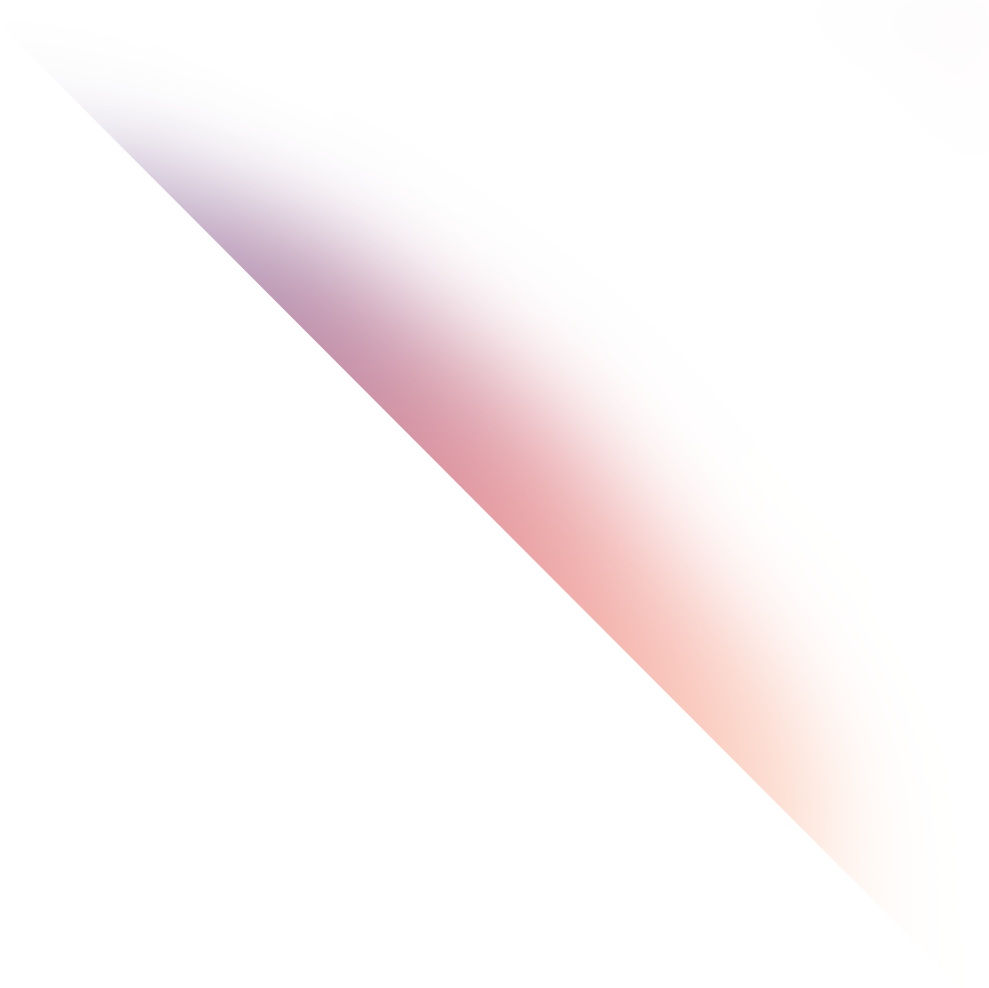
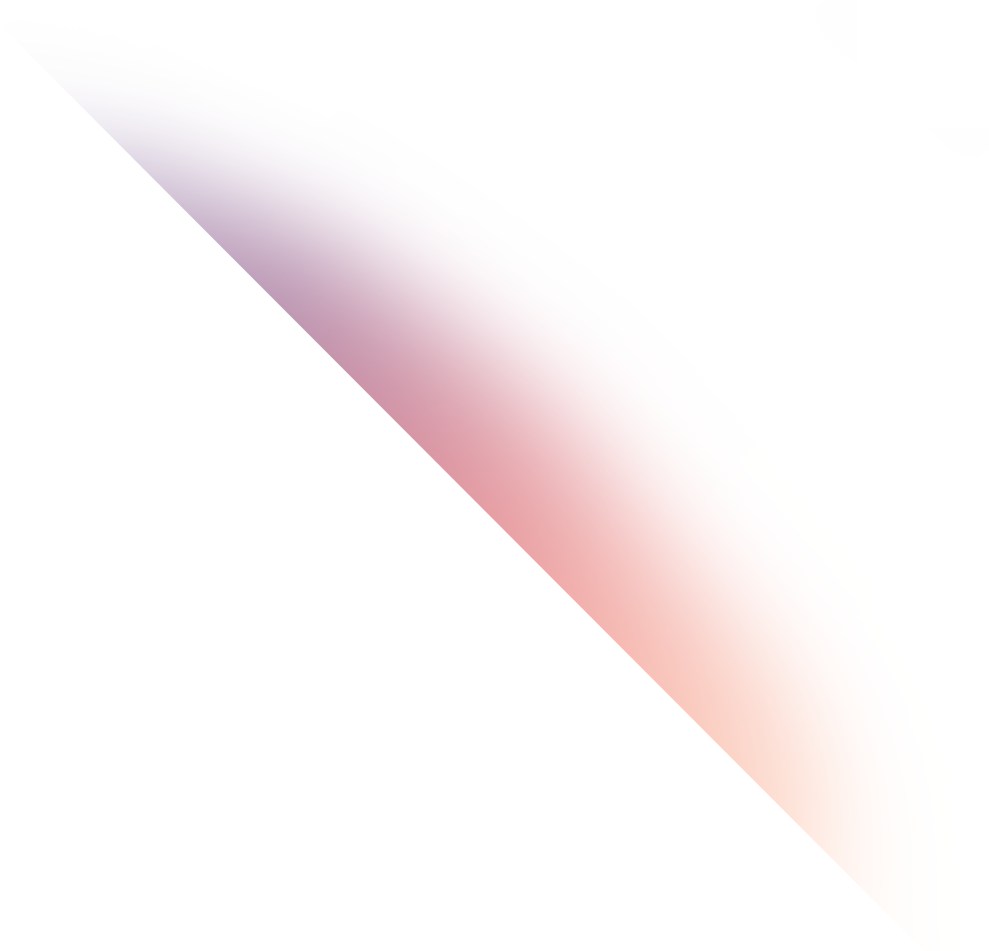
Обновил градиенты, 2-ые градиенты жс, текст, ромбы

diff --git a/src/assets/js/gradients.js b/src/assets/js/gradients.js
@@ -99,6 +99,28 @@ class GradientBlock {
 
     this.request = false;
 
+    if(this.images.length===2) {
+       this.gradients = [
+      new Gradient({
+        parent: this,
+        rotate: 0,
+        x0: this.dots.x0,
+        y0: this.dots.y0,
+        dx: -500,
+        dy: -500,
+        image: this.images[0]
+      }),
+      // revert
+      new Gradient({
+        parent: this,
+        rotate: 90,
+        x0: this.dots.x2,
+        y0: this.dots.y2,
+        dx: 500,
+        dy: -500,
+        image: this.images[1]
+      })]
+    } else {
     this.gradients = [
       new Gradient({
         parent: this,
@@ -129,6 +151,7 @@ class GradientBlock {
         image: this.images[2]
       })
     ];
+    }
 
     this.triggered = false;
     this.animated = false;
@@ -142,16 +165,17 @@ class GradientBlock {
   updateXY() {
     this.currentX = this.parent.currentX;
     this.currentY = this.parent.currentY;
-
-    this.gradients[0].updateXY();
-    this.gradients[1].updateXY();
-    this.gradients[2].updateXY();
+    for(let i = 0; i < this.gradients.length; i += 1) {
+this.gradients[i].updateXY();
+    }    
+    
   }
 
   tick() {
-    this.gradients[0].tick();
-    this.gradients[1].tick();
-    this.gradients[2].tick();
+      for(let i = 0; i < this.gradients.length; i += 1) {
+this.gradients[i].tick();
+      }
+    
   }
 
   newTick() {
@@ -165,16 +189,15 @@ class GradientBlock {
       this.animated = true;
     }
     this.g = 1 - (1 - this.k) ** 5;
-
-    this.gradients[0].newTick();
-    this.gradients[1].newTick();
-    this.gradients[2].newTick();
+for(let i = 0; i < this.gradients.length; i += 1) {
+    this.gradients[i].newTick();
+}
   }
 
   draw() {
-    this.gradients[0].draw();
-    this.gradients[1].draw();
-    this.gradients[2].draw();
+    for(let i = 0; i < this.gradients.length; i += 1) {
+    this.gradients[i].draw();
+    }
   }
 
   render() {
@@ -280,7 +303,7 @@ class Gradients {
           x2: -245,
           y2: 760
         },
-        images: [this.images[1], this.images[1], this.images[1]],
+        images: [this.images[2], this.images[2], this.images[2]],
         triggerY: 741
       }),
       new GradientBlock({
@@ -315,16 +338,29 @@ class Gradients {
       new GradientBlock({
         parent: this,
         dots: {
-          x0: 227,
-          y0: 4593 + this.showLinesHeight + 331 + 39,
-          x1: -183,
-          y1: 4593 + this.showLinesHeight + 431 + 39,
-          x2: -137,
-          y2: 4593 + this.showLinesHeight + 281 + 39
+          x0: 230,
+          y0: 4593 + this.showLinesHeight + 331 + 34,
+          // x1: -183,
+          // y1: 4593 + this.showLinesHeight + 431 + 39,
+          x2: -134,
+          y2: 4593 + this.showLinesHeight + 281 + 34
         },
-        images: [this.images[1], this.images[1], this.images[1]],
+        images: [this.images[3], this.images[3]],
         triggerY: 4393 + this.showLinesHeight + 606
       }),
+      // new GradientBlock({
+      //   parent: this,
+      //   dots: {
+      //     x0: 227,
+      //     y0: 4593 + this.showLinesHeight + 331 + 39,
+      //     x1: -183,
+      //     y1: 4593 + this.showLinesHeight + 431 + 39,
+      //     x2: -137,
+      //     y2: 4593 + this.showLinesHeight + 281 + 39
+      //   },
+      //   images: [this.images[1], this.images[1], this.images[1]],
+      //   triggerY: 4393 + this.showLinesHeight + 606
+      // }),
       // Продукция
 
       new GradientBlock({
@@ -332,12 +368,10 @@ class Gradients {
         dots: {
           x0: 167,
           y0: 4593 + this.showLinesHeight + this.partnerLinesHeight + 776,
-          x1: -199.5,
-          y1: 4593 + this.showLinesHeight + this.partnerLinesHeight + 890,
           x2: -177,
           y2: 4593 + this.showLinesHeight + this.partnerLinesHeight + 790
         },
-        images: [this.images[1], this.images[1], this.images[1]],
+        images: [this.images[1], this.images[1]],
         triggerY: 4393 + this.showLinesHeight + this.partnerLinesHeight + 999
       })
     ];

diff --git a/src/assets/js/rhombus.js b/src/assets/js/rhombus.js
@@ -2112,35 +2112,6 @@ class ProductRhombus {
     this.noise = opts.images[1];
     this.showMore = opts.images[2];
 
-    // Скалирование картинки и выдача паттерна
-    this.canvas = document.createElement('canvas');
-    this.canvas.width = this.scaledWidth;
-    this.canvas.height = this.scaledHeight;
-    this.canvas
-      .getContext('2d')
-      .drawImage(this.image, 0, 0, this.scaledWidth, this.scaledHeight);
-    this.imagePattern = this.context.createPattern(this.canvas, 'repeat');
-
-    this.canvas
-      .getContext('2d')
-      .clearRect(0, 0, this.scaledWidth, this.scaledHeight);
-
-    this.canvas
-      .getContext('2d')
-      .clearRect(0, 0, this.scaledWidth, this.scaledHeight);
-
-    this.canvas
-      .getContext('2d')
-      .drawImage(this.noise, 0, 0, this.scaledWidth, this.scaledHeight);
-
-    this.noisePattern = this.context.createPattern(this.canvas, 'repeat');
-
-    this.canvas
-      .getContext('2d')
-      .drawImage(this.showMore, 0, 0, this.scaledWidth, this.scaledHeight);
-
-    this.showMorePattern = this.context.createPattern(this.canvas, 'repeat');
-    // Конец скалирования и выдачи паттерна
   }
 
   /**
@@ -2174,18 +2145,22 @@ class ProductRhombus {
 
   drawImage() {
     this.context.save();
-    this.context.translate(this.x, this.y);
+
+    this.context.beginPath();
+    this.context.moveTo(this.dots.x0, this.dots.y0);
+    this.context.lineTo(this.dots.x1, this.dots.y1);
+    this.context.lineTo(this.dots.x2, this.dots.y2);
+    this.context.lineTo(this.dots.x3, this.dots.y3);
+    this.context.closePath();
+    this.context.clip();
+
     this.context.globalAlpha = this.imageAlpha;
-    this.context.fillStyle = this.noisePattern;
-    this.context.fill();
-    this.context.fillStyle = this.imagePattern;
-    this.context.fill();
+    this.context.drawImage(this.noise, this.x, this.y, this.scaledWidth, this.scaledHeight);
+    this.context.drawImage(this.image, this.x, this.y, this.scaledWidth, this.scaledHeight)
     if (this.imageReady && this.showMoreAlpha > 0) {
-      this.context.fillStyle = this.showMorePattern;
       this.context.globalAlpha = this.showMoreAlpha;
-      this.context.fill();
+      this.context.drawImage(this.showMore, this.x, this.y, this.scaledWidth, this.scaledHeight)
     }
-    this.context.globalAlpha = 1;
     this.context.restore();
   }
 

diff --git a/src/assets/js/text.js b/src/assets/js/text.js
@@ -79,6 +79,8 @@ class Text {
     this.partnerLines = this.parent.blocks.partnerLines;
     this.productLines = this.parent.blocks.productLines;
 
+    this.halfWindowWidth = this.parent.windowWidth / 2;
+
     this.showLinesHeight = this.showLines.height;
     this.partnerLinesHeight = this.partnerLines.height;
     this.productLinesHeight = this.productLines.height;
@@ -96,14 +98,19 @@ class Text {
       h: document.querySelector('.js-show-block__sub-header'),
       p: document.querySelector('.js-show-block__text')
     };
-
     this.showRhombuses = getShowRhombuses(this);
-    this.productRhombuses = getProductRhombuses(this);
+    
 
-    this.Partners = {
-      h: document.querySelector('.js-partners-block__sub-header'),
-      p: document.querySelector('.js-partners-block__text')
+    this.partnerBlock = {
+      h: document.querySelectorAll('.js-partner-block__sub-header'),
+      p: document.querySelector('.js-partner-block__text')
     };
+
+    this.productBlock = {
+      h: document.querySelectorAll('.js-product-block__sub-header'),
+      p: document.querySelector('.js-product-block__text')
+    };
+    this.productRhombuses = getProductRhombuses(this);
 
     this.applyStyles();
   }
@@ -211,6 +218,15 @@ class Text {
       this.showRhombuses[i].a.style.lineHeight = `${220 * this.scale}px`;
       k += 1;
     }
+
+    changeTranslate(this.partnerBlock.h[0],114*this.scale,(4593+242+this.showLinesHeight)*this.scale);
+    changeTranslate(this.partnerBlock.h[1],427*this.scale,(4593+739+this.showLinesHeight)*this.scale);
+    changeTranslate(this.partnerBlock.p,114*this.scale,(4593+307+this.showLinesHeight)*this.scale)
+
+
+    changeTranslate(this.productBlock.h[0], 114 * this.scale, (this.showLinesHeight + 840 + 4593 + this.partnerLinesHeight + 242)*this.scale)
+    changeTranslate(this.productBlock.h[1], 418 * this.scale, (this.showLinesHeight + 840 + 4593 + this.partnerLinesHeight + 748)*this.scale)
+    changeTranslate(this.productBlock.p, 114 * this.scale, (this.showLinesHeight + 840 + 4593 + this.partnerLinesHeight + 339)*this.scale)
 
     for (let i = 0, k = 0, j = 0; i < this.productRhombuses.length; i += 1) {
       if (k === 3) {

diff --git a/src/partials/desktop-index.html b/src/partials/desktop-index.html
@@ -78,7 +78,10 @@
     <!-- Конец шоу -->
 
     <!-- Начало партнёров -->
-    <h2 class="content__sub-header js-partner-block__sub-header">Шоу на любой вкус.</h2>
+    <h2 class="content__sub-header js-partner-block__sub-header">Сотрудничество</h2>
+    <p class="content__stext js-partner-block__text">Мы сотрудничаем с компаниями по всему миру, чтобы предоставить вам только лучшее</p>
+    <h2 class="content__sub-header js-partner-block__sub-header">Партнёры</h2>
+
     <!-- Конец партнёров -->
 
     <!-- Начало продуктов -->
@@ -86,6 +89,8 @@
 </h2>
     <p class="content__text js-product-block__text">Мы занимемся продажей лазерного оборудования по всей России. Поможем выбрать нужную аппаратуру для вашего праздника.
 </p>
+    <h2 class="content__sub-header js-product-block__sub-header">Продукция</h2>
+
     <!-- будет автоматом создаваться -->
     <p class="content__sub-text sub-text--upper js-product-block__rhombus__text">clubmax 2000</p>
     <p class="content__sub-text sub-text--upper js-product-block__rhombus__text">clubmax 2000</p>
